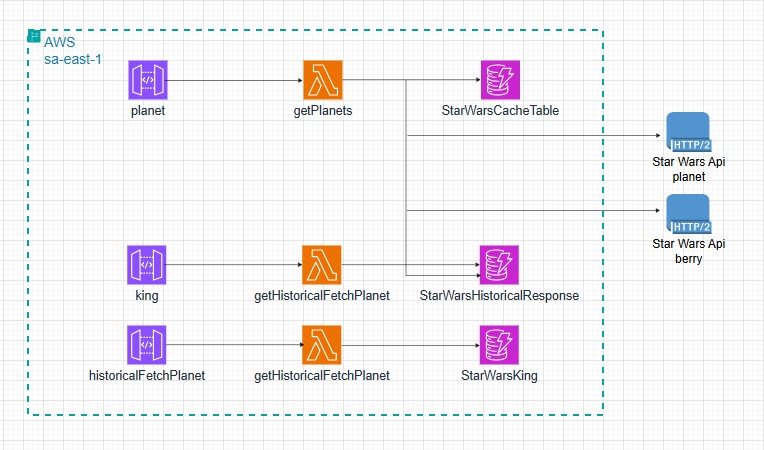
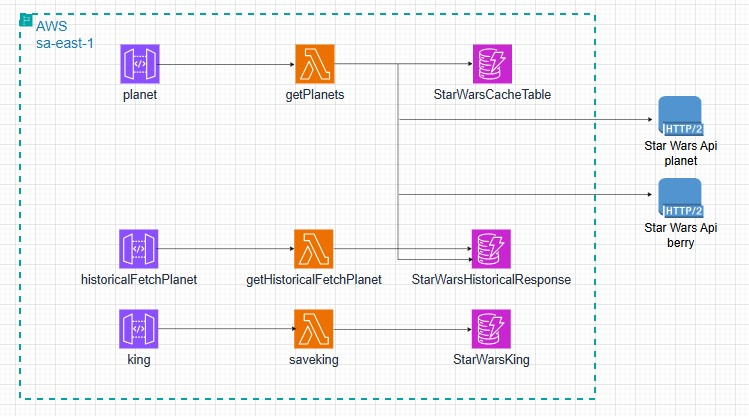
Ready to send

diff --git a/README.md b/README.md
@@ -4,12 +4,27 @@ starwars-planets-backend-service
 
 ## Descripción
 
+### getPlanets
+
 Api que integra dos apis:
 
 - Star Wars Api servicio planets
 - PokeApi servicio berry
 
 Se hace la integración considerando que el berry (comida tipica del planeta) contiene el mismo id del planeta.
+
+Se consulta si hay datos del id en cache, si hay se retornan y se guarda en la BD en el histórico
+Sino hay datos en cache, se consultan las apis, se guarda en caché e histórico
+
+En ambos casos el resultado se retorna al cliente http
+
+### getHistoricalFetchPlanet
+
+Servicio que retorna las consultas guardadas en la BD
+
+### saveKing
+
+Servicio que permite guardar registros en la BD
 
 ## Endpoints desarrollados
 
